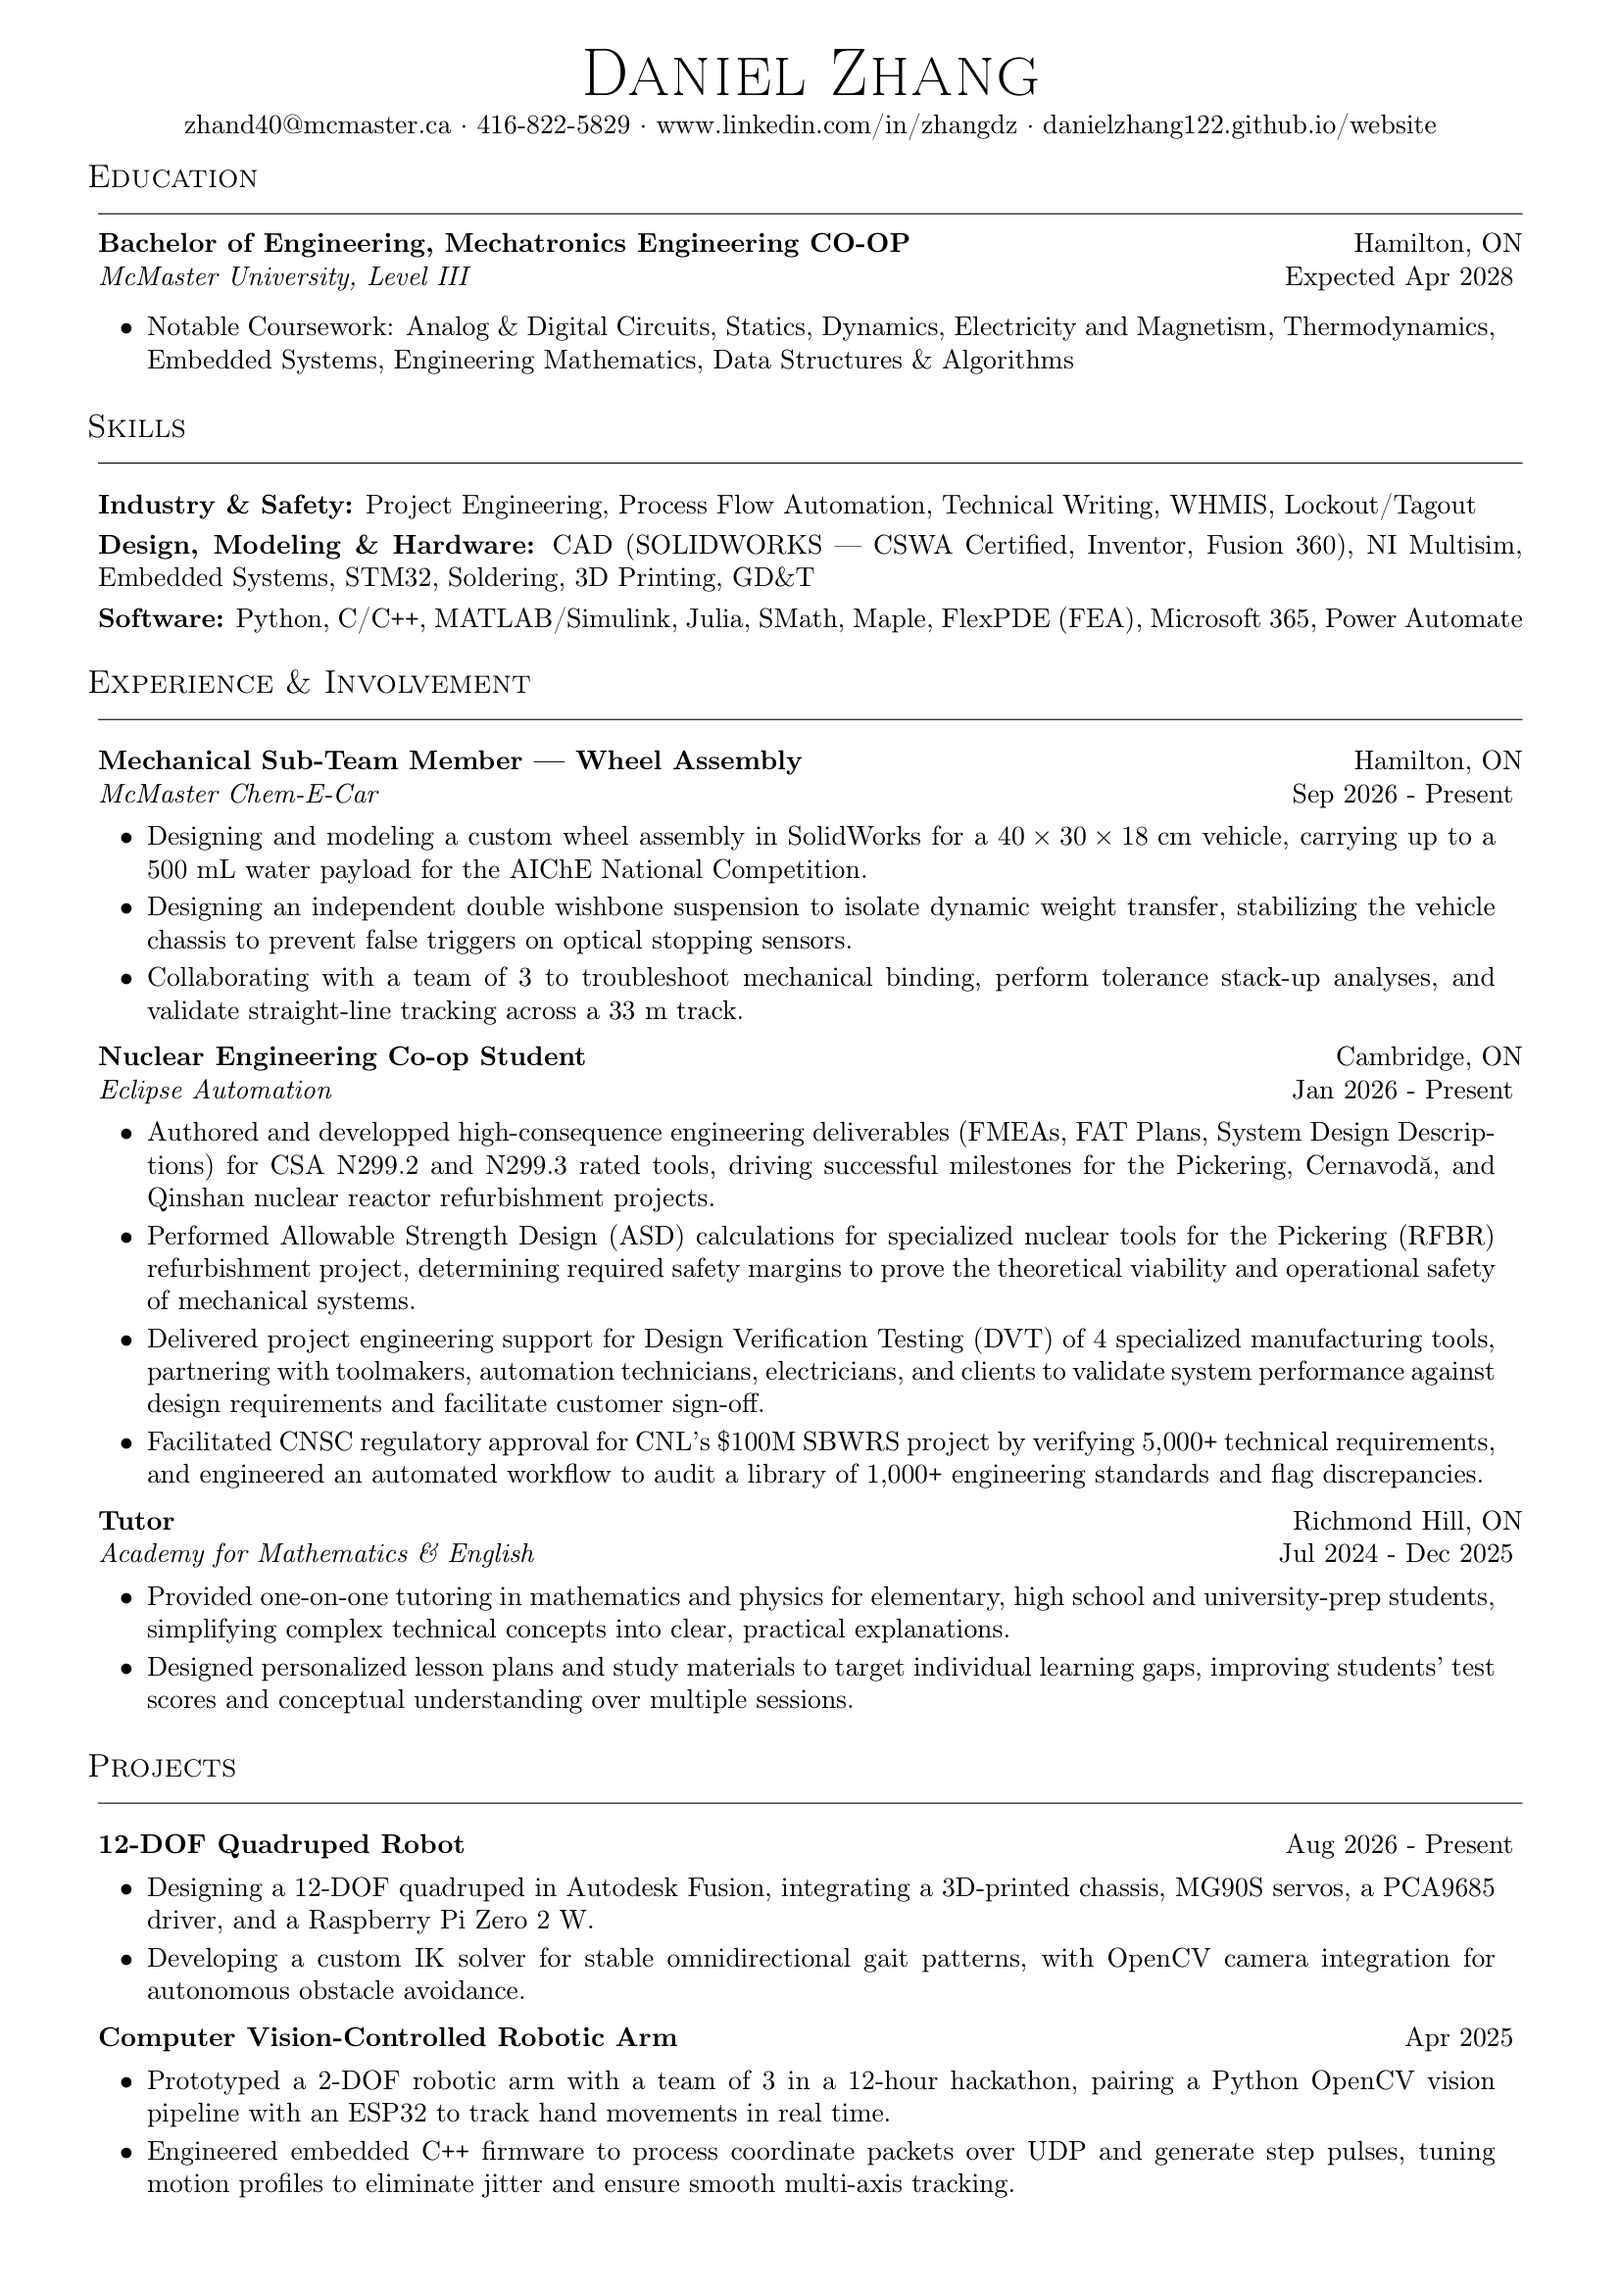
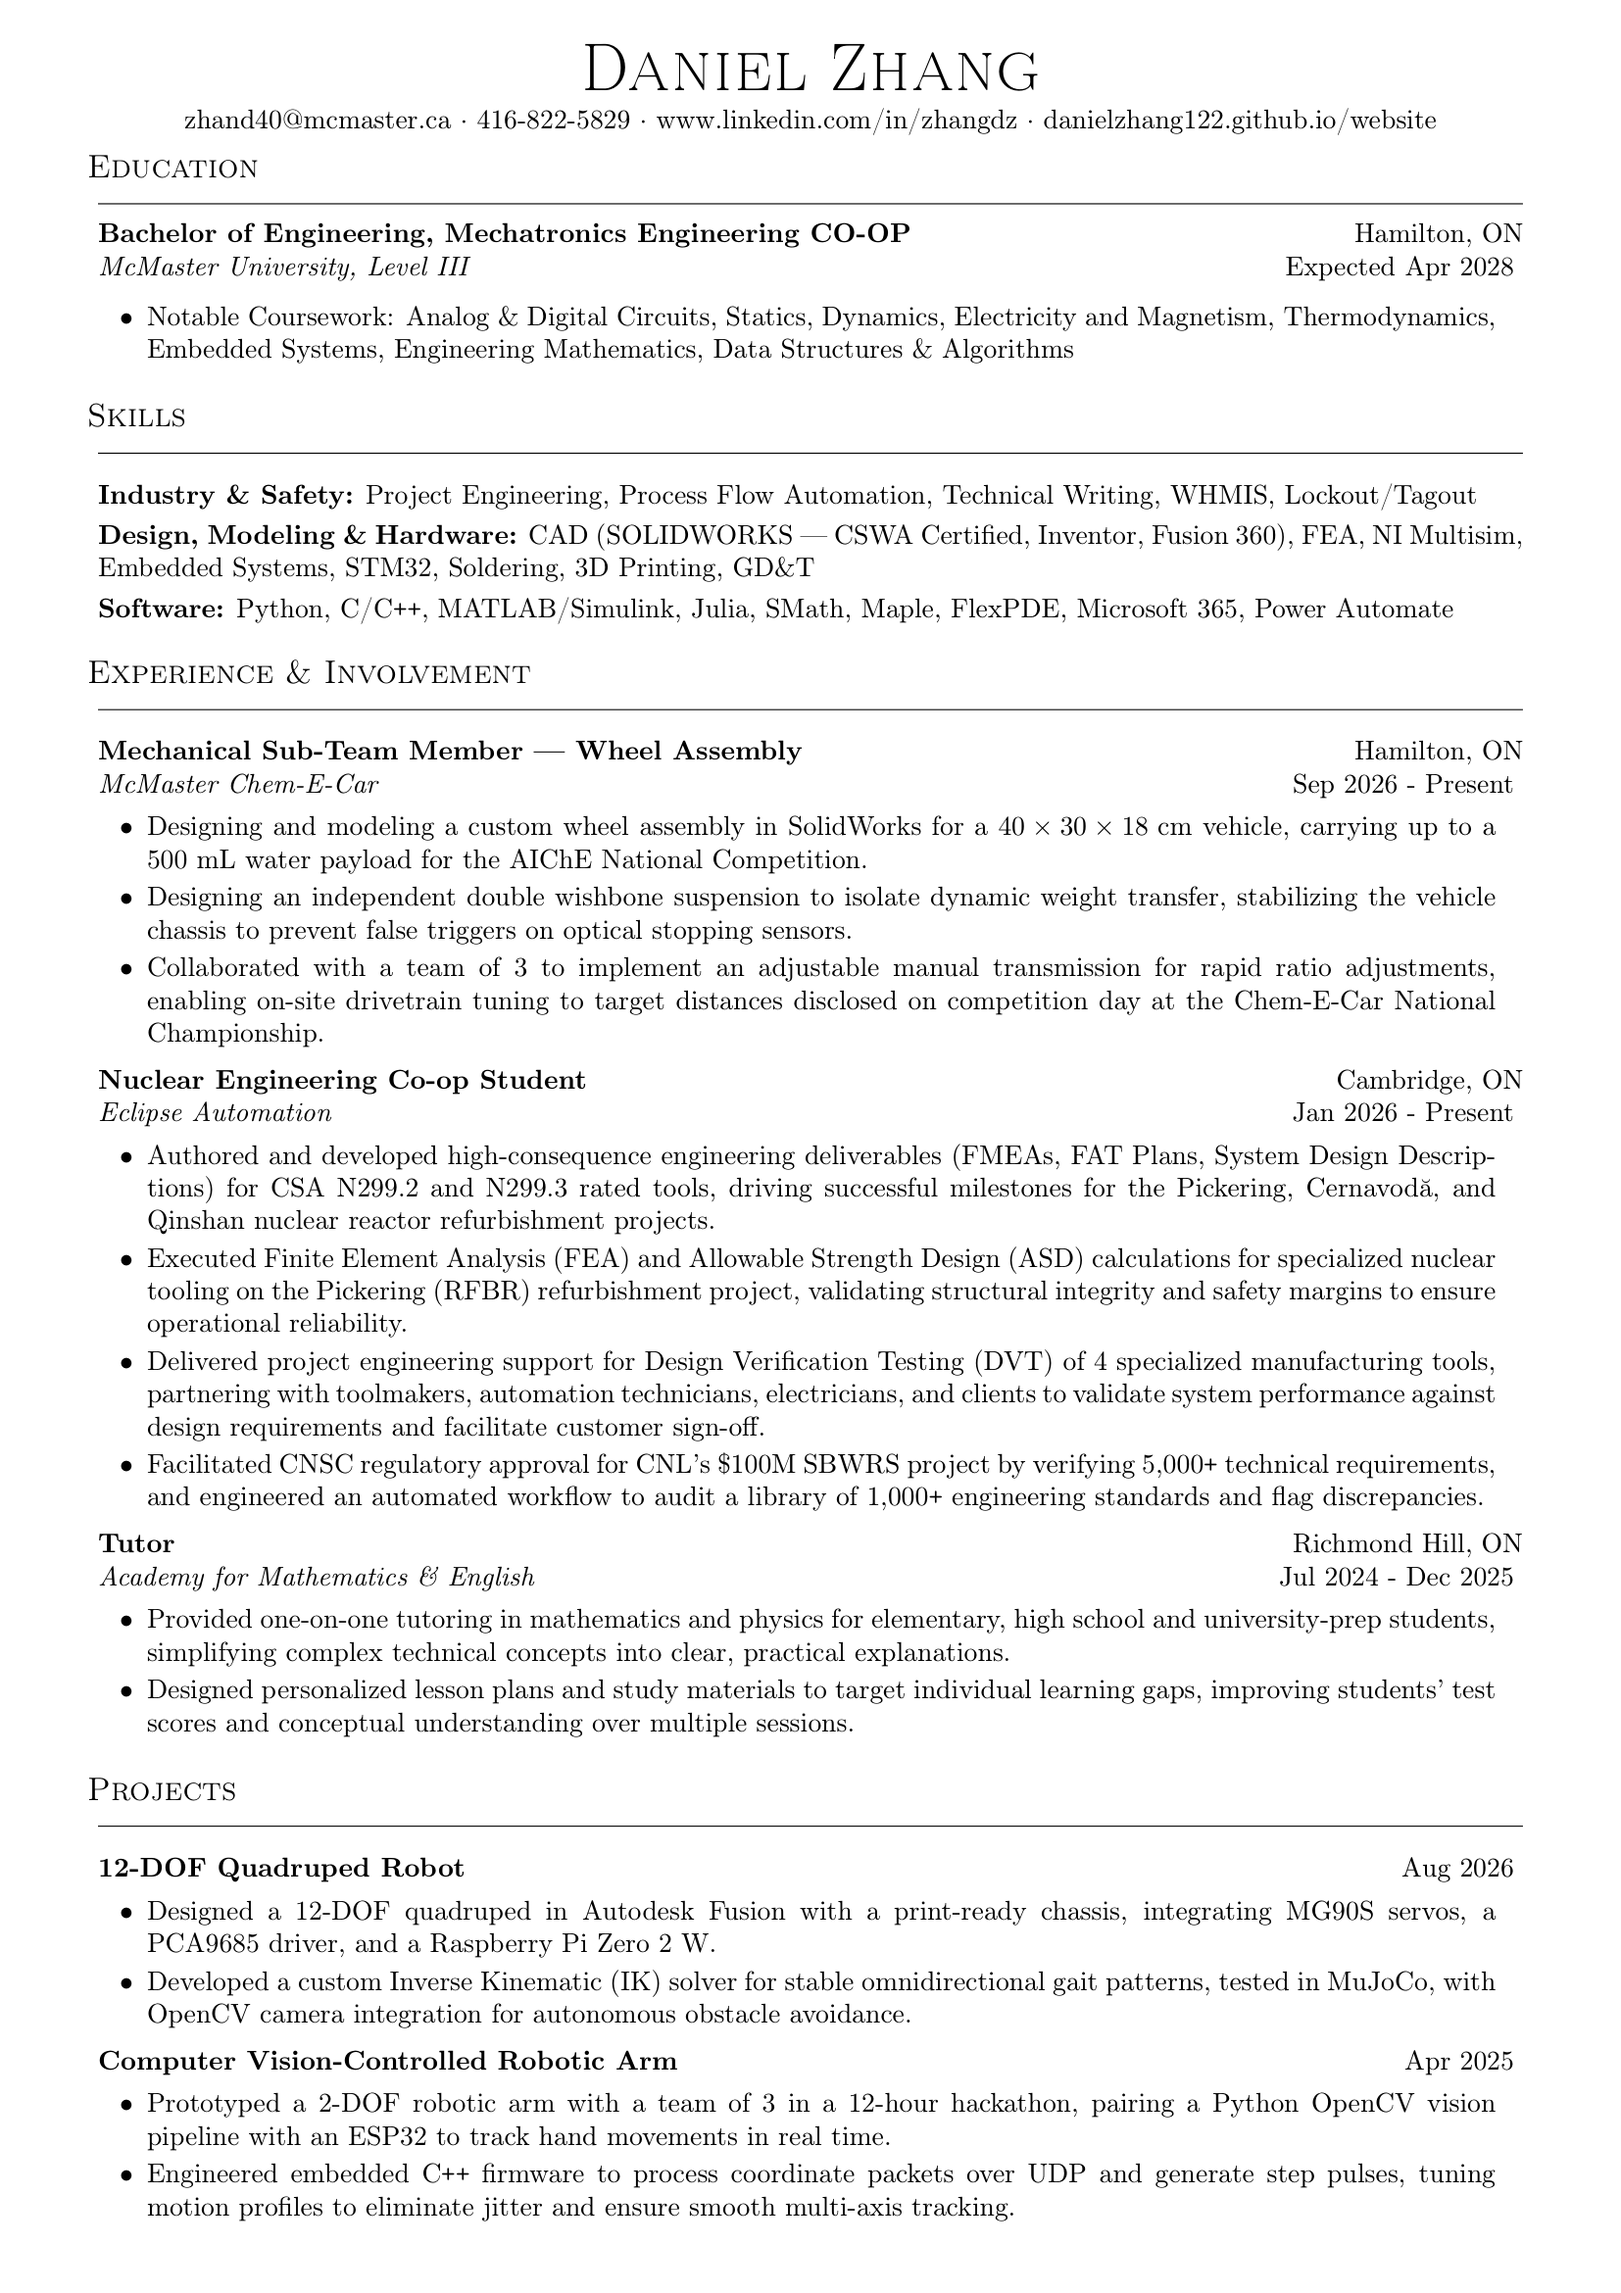
Update resume to latest version and fix quadruped tags

Changed region(s): [[0.0617, 0.0312, 0.9559, 0.9675], [0.3083, 0.0312, 0.8017, 0.0624], [0.8325, 0.0312, 0.8634, 0.0624]]

diff --git a/index.html b/index.html
@@ -168,7 +168,7 @@
               <h3>Autonomous Quadruped Robot &amp; Locomotion Sim</h3>
               <p>12-DOF legged robotics platform built around an inverse kinematics solver and dynamic stability modeling. Simulated leg trajectories, center-of-mass stabilization, and ground reaction forces in real time. Works flawlessly in simulation, where gravity is a tidy constant and friction never betrays you.</p>
             </div>
-            <div class="tags"><span>Inverse Kinematics</span><span>MuJoCo</span><span>ESP32</span><span>C++</span></div>
+            <div class="tags"><span>Inverse Kinematics</span><span>MuJoCo</span><span>Raspberry Pi</span><span>C++</span></div>
           </div>
         </article>
 
@@ -214,7 +214,7 @@
           <div class="card-body">
             <div>
               <h3>Vision-Guided 2-DOF Robotic Arm</h3>
-              <p>Built in 6 hours, which is roughly how long SolidWorks takes to open. Runs a real-time OpenCV hand-tracking pipeline that streams coordinate deltas over UDP to an ESP32, which turns them into tuned stepper pulses without jitter.</p>
+              <p>Built in 12 hours, which is roughly how long SolidWorks takes to open. Runs a real-time OpenCV hand-tracking pipeline that streams coordinate deltas over UDP to an ESP32, which turns them into tuned stepper pulses without jitter.</p>
             </div>
             <div class="tags"><span>OpenCV</span><span>ESP32</span><span>C++ / UDP</span></div>
           </div>
